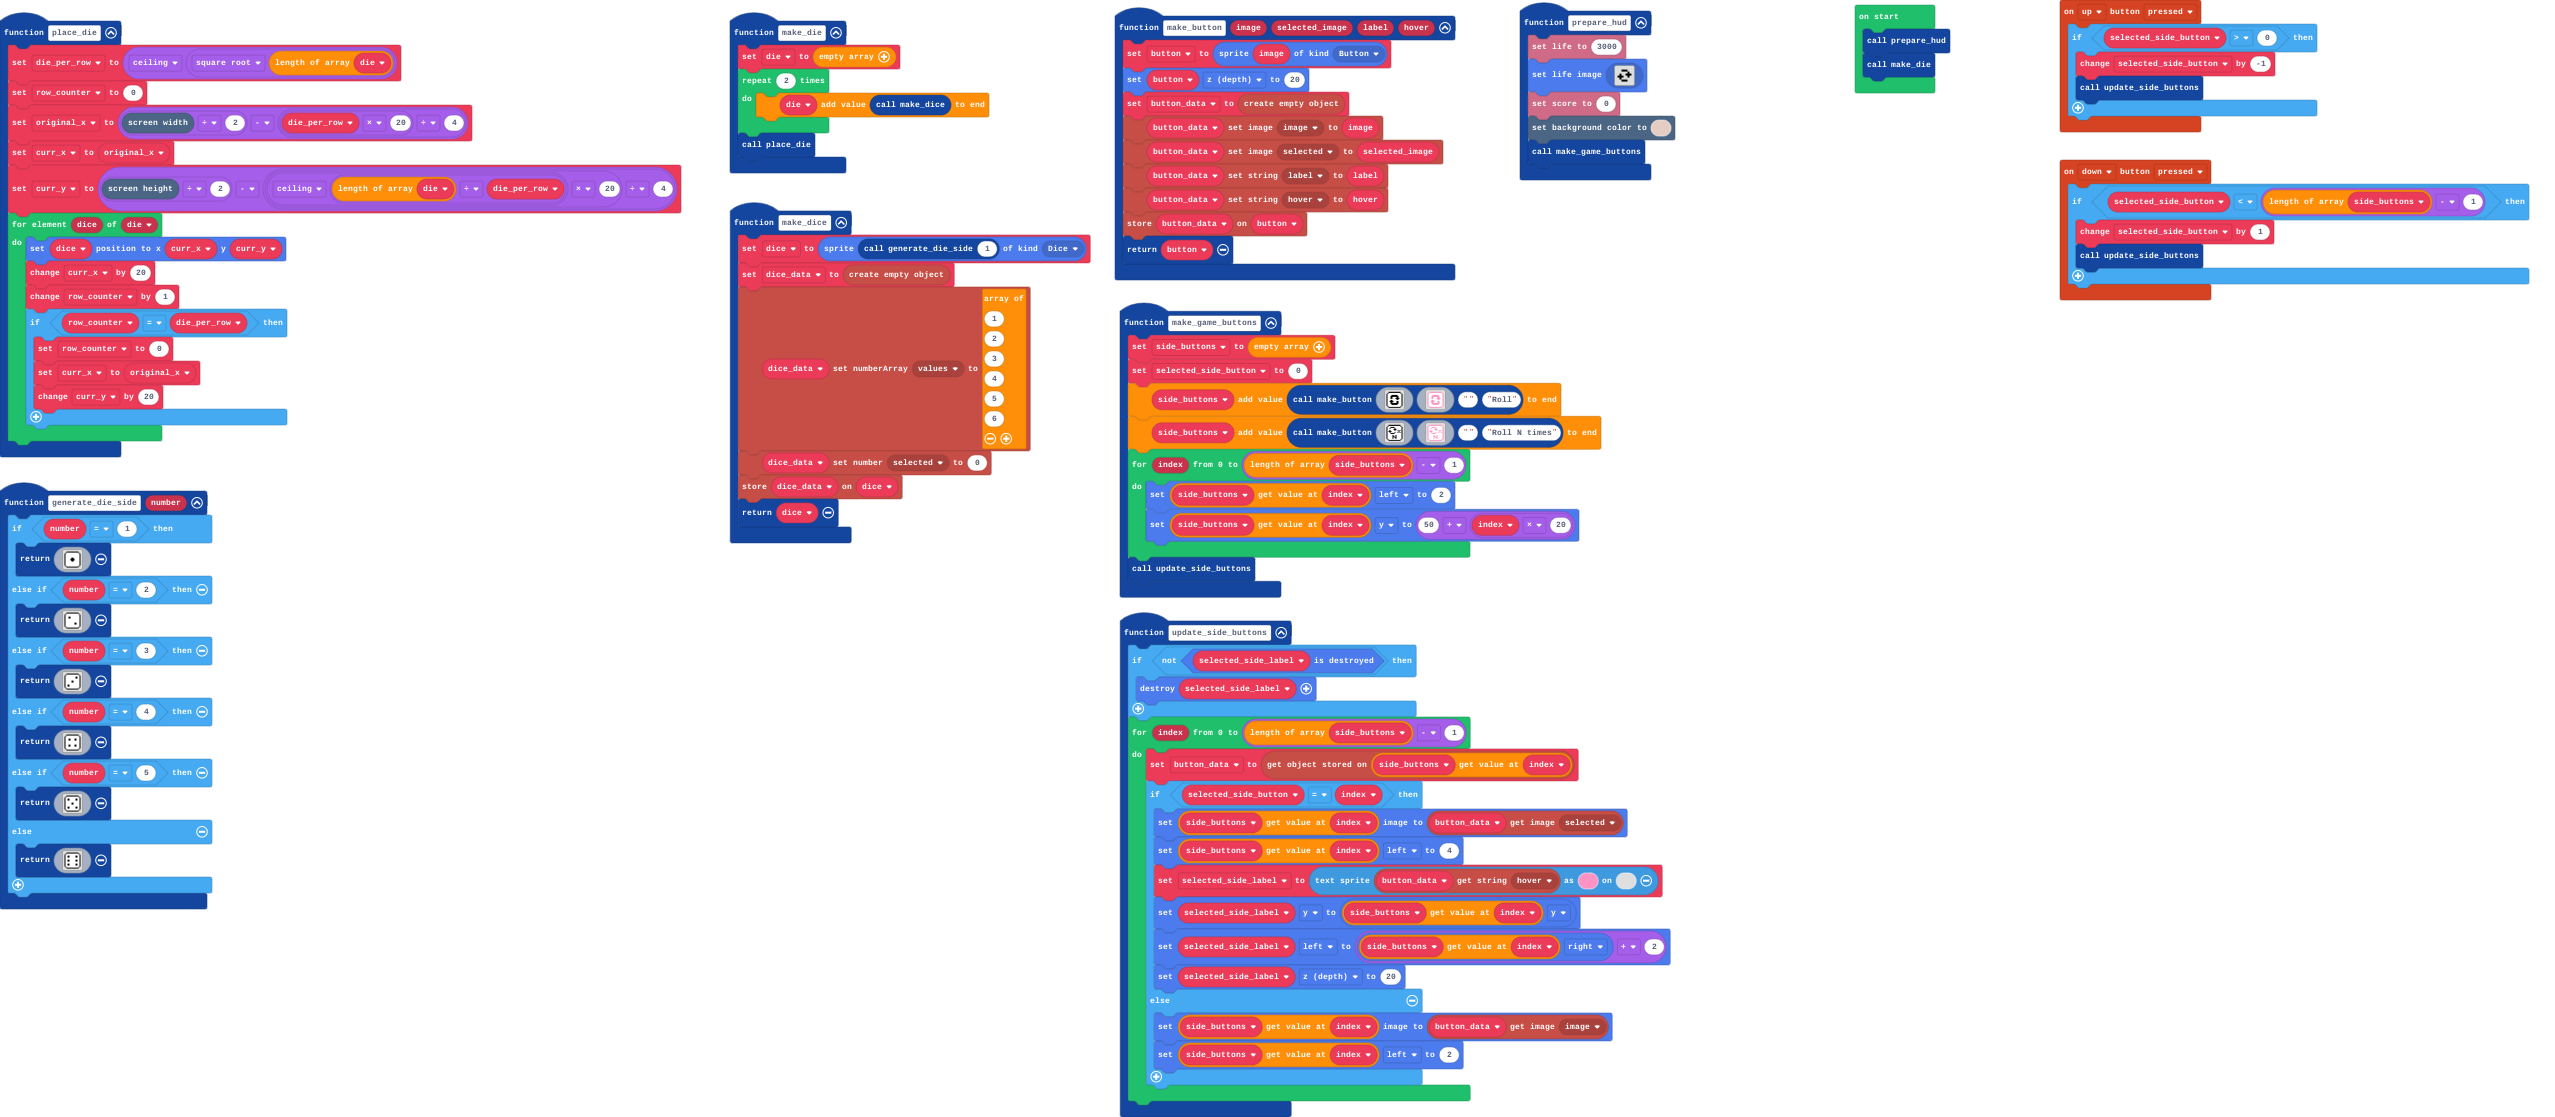
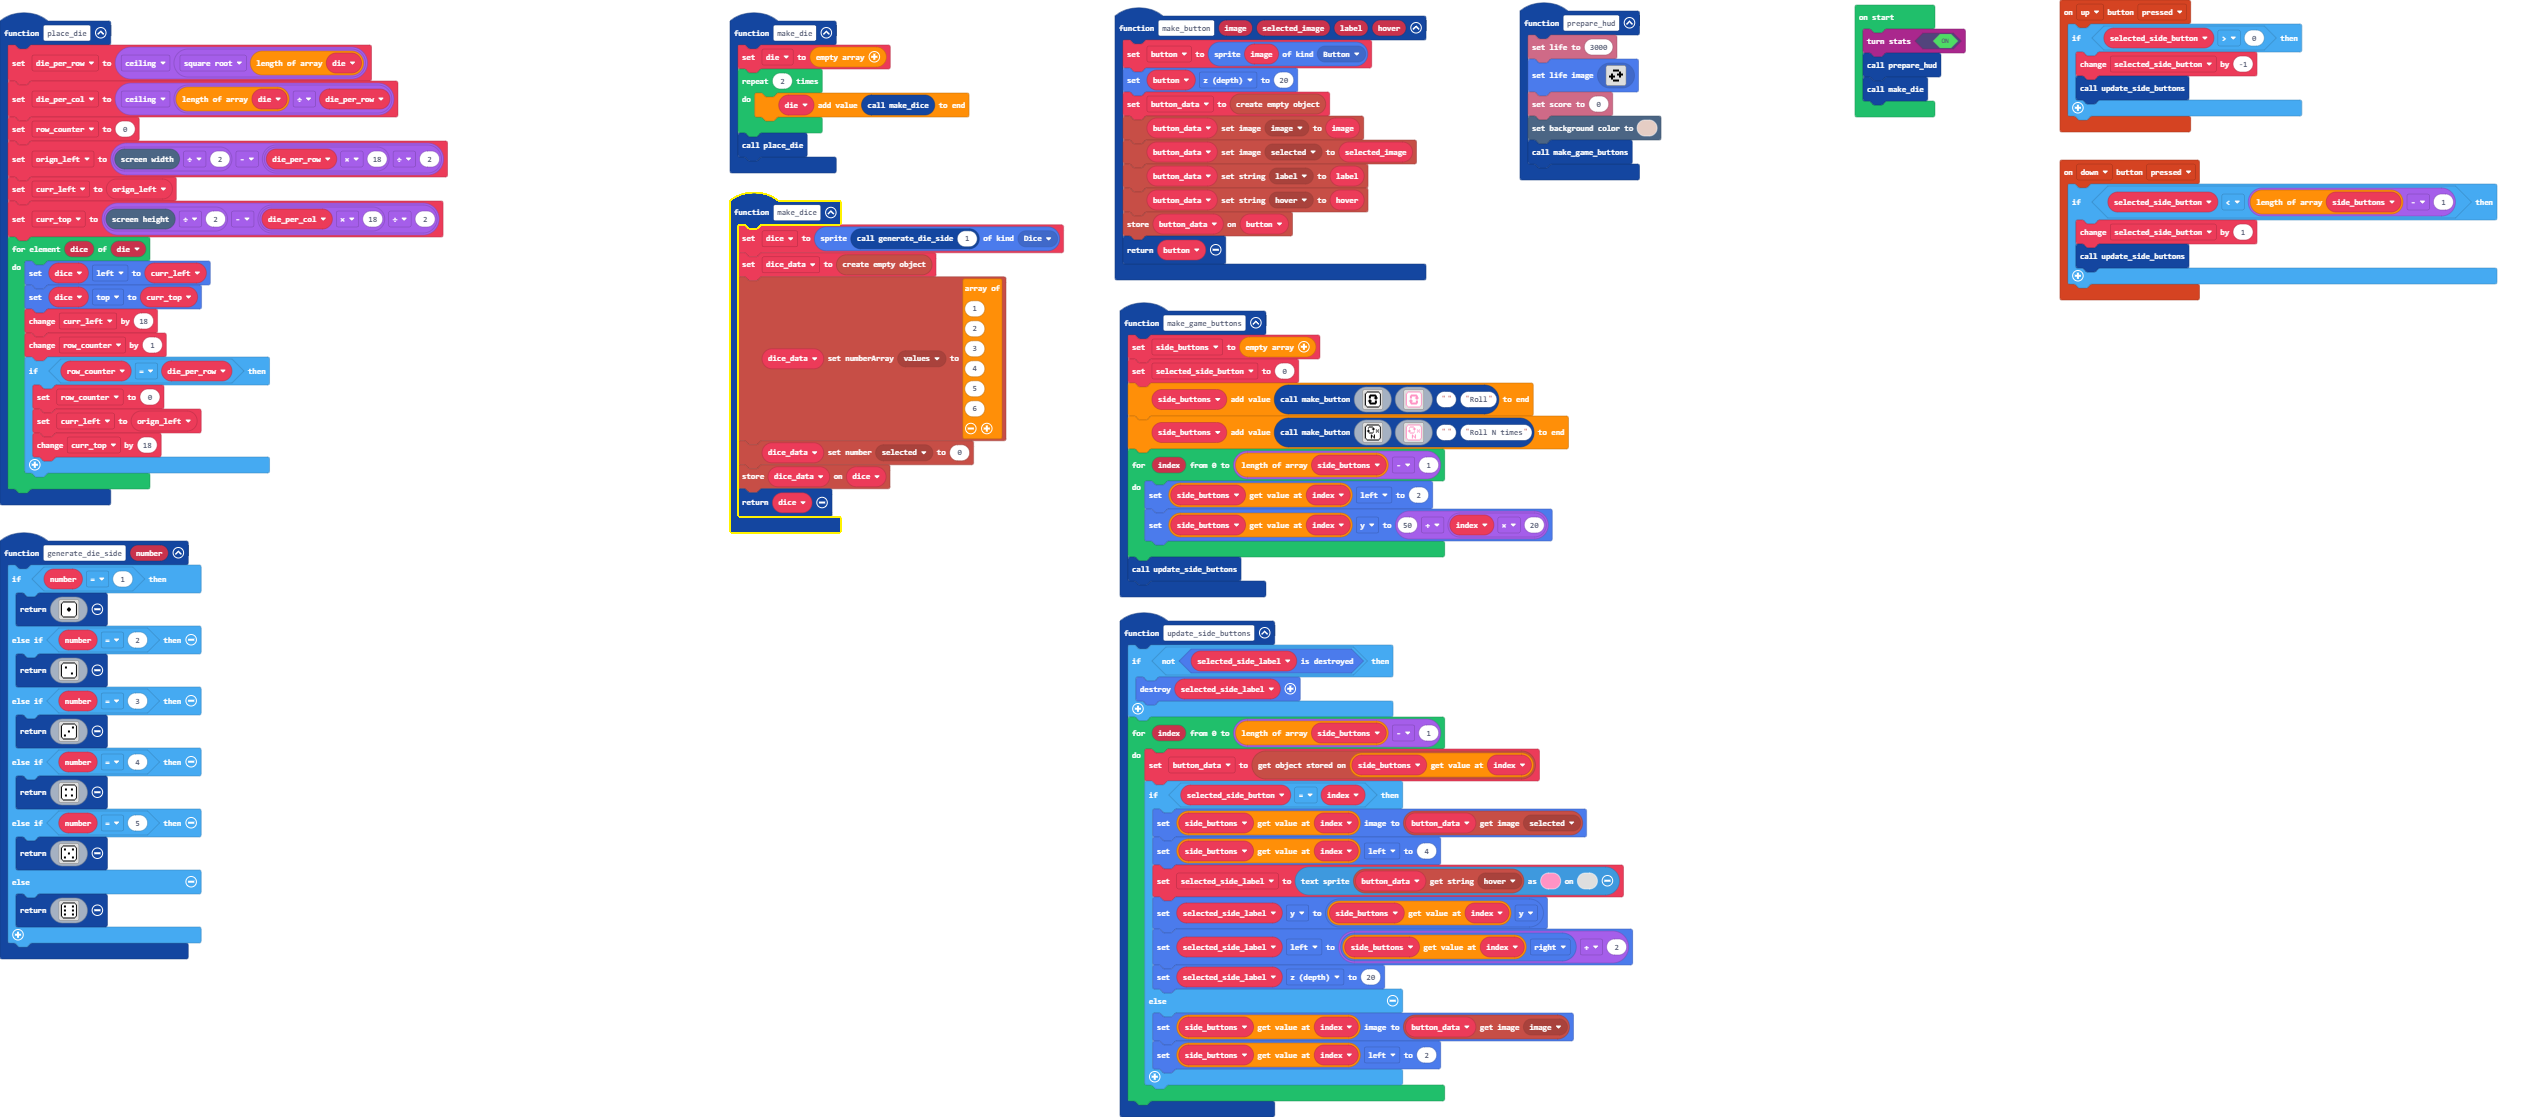
Place die better

Changed region(s): [[0.0, 0.0, 0.6801, 0.8827], [0.4328, 0.2739, 0.6492, 1.0], [0.7111, 0.0, 0.9584, 0.2739]]

diff --git a/main.ts b/main.ts
@@ -115,25 +115,28 @@ controller.down.onEvent(ControllerButtonEvent.Pressed, function () {
 })
 function place_die () {
     die_per_row = Math.ceil(Math.sqrt(die.length))
+    die_per_col = Math.ceil(die.length / die_per_row)
     row_counter = 0
-    original_x = scene.screenWidth() / 2 - die_per_row * 20 / 4
-    curr_x = original_x
-    curr_y = scene.screenHeight() / 2 - Math.ceil(die.length / die_per_row) * 20 / 4
+    orign_left = scene.screenWidth() / 2 - die_per_row * 18 / 2
+    curr_left = orign_left
+    curr_top = scene.screenHeight() / 2 - die_per_col * 18 / 2
     for (let dice of die) {
-        dice.setPosition(curr_x, curr_y)
-        curr_x += 20
+        dice.left = curr_left
+        dice.top = curr_top
+        curr_left += 18
         row_counter += 1
         if (row_counter == die_per_row) {
             row_counter = 0
-            curr_x = original_x
-            curr_y += 20
+            curr_left = orign_left
+            curr_top += 18
         }
     }
 }
-let curr_y = 0
-let curr_x = 0
-let original_x = 0
+let curr_top = 0
+let curr_left = 0
+let orign_left = 0
 let row_counter = 0
+let die_per_col = 0
 let die_per_row = 0
 let button: Sprite = null
 let die: Sprite[] = []
@@ -143,5 +146,6 @@ let selected_side_button = 0
 let button_data: blockObject.BlockObject = null
 let side_buttons: Sprite[] = []
 let selected_side_label: TextSprite = null
+stats.turnStats(true)
 prepare_hud()
 make_die()
